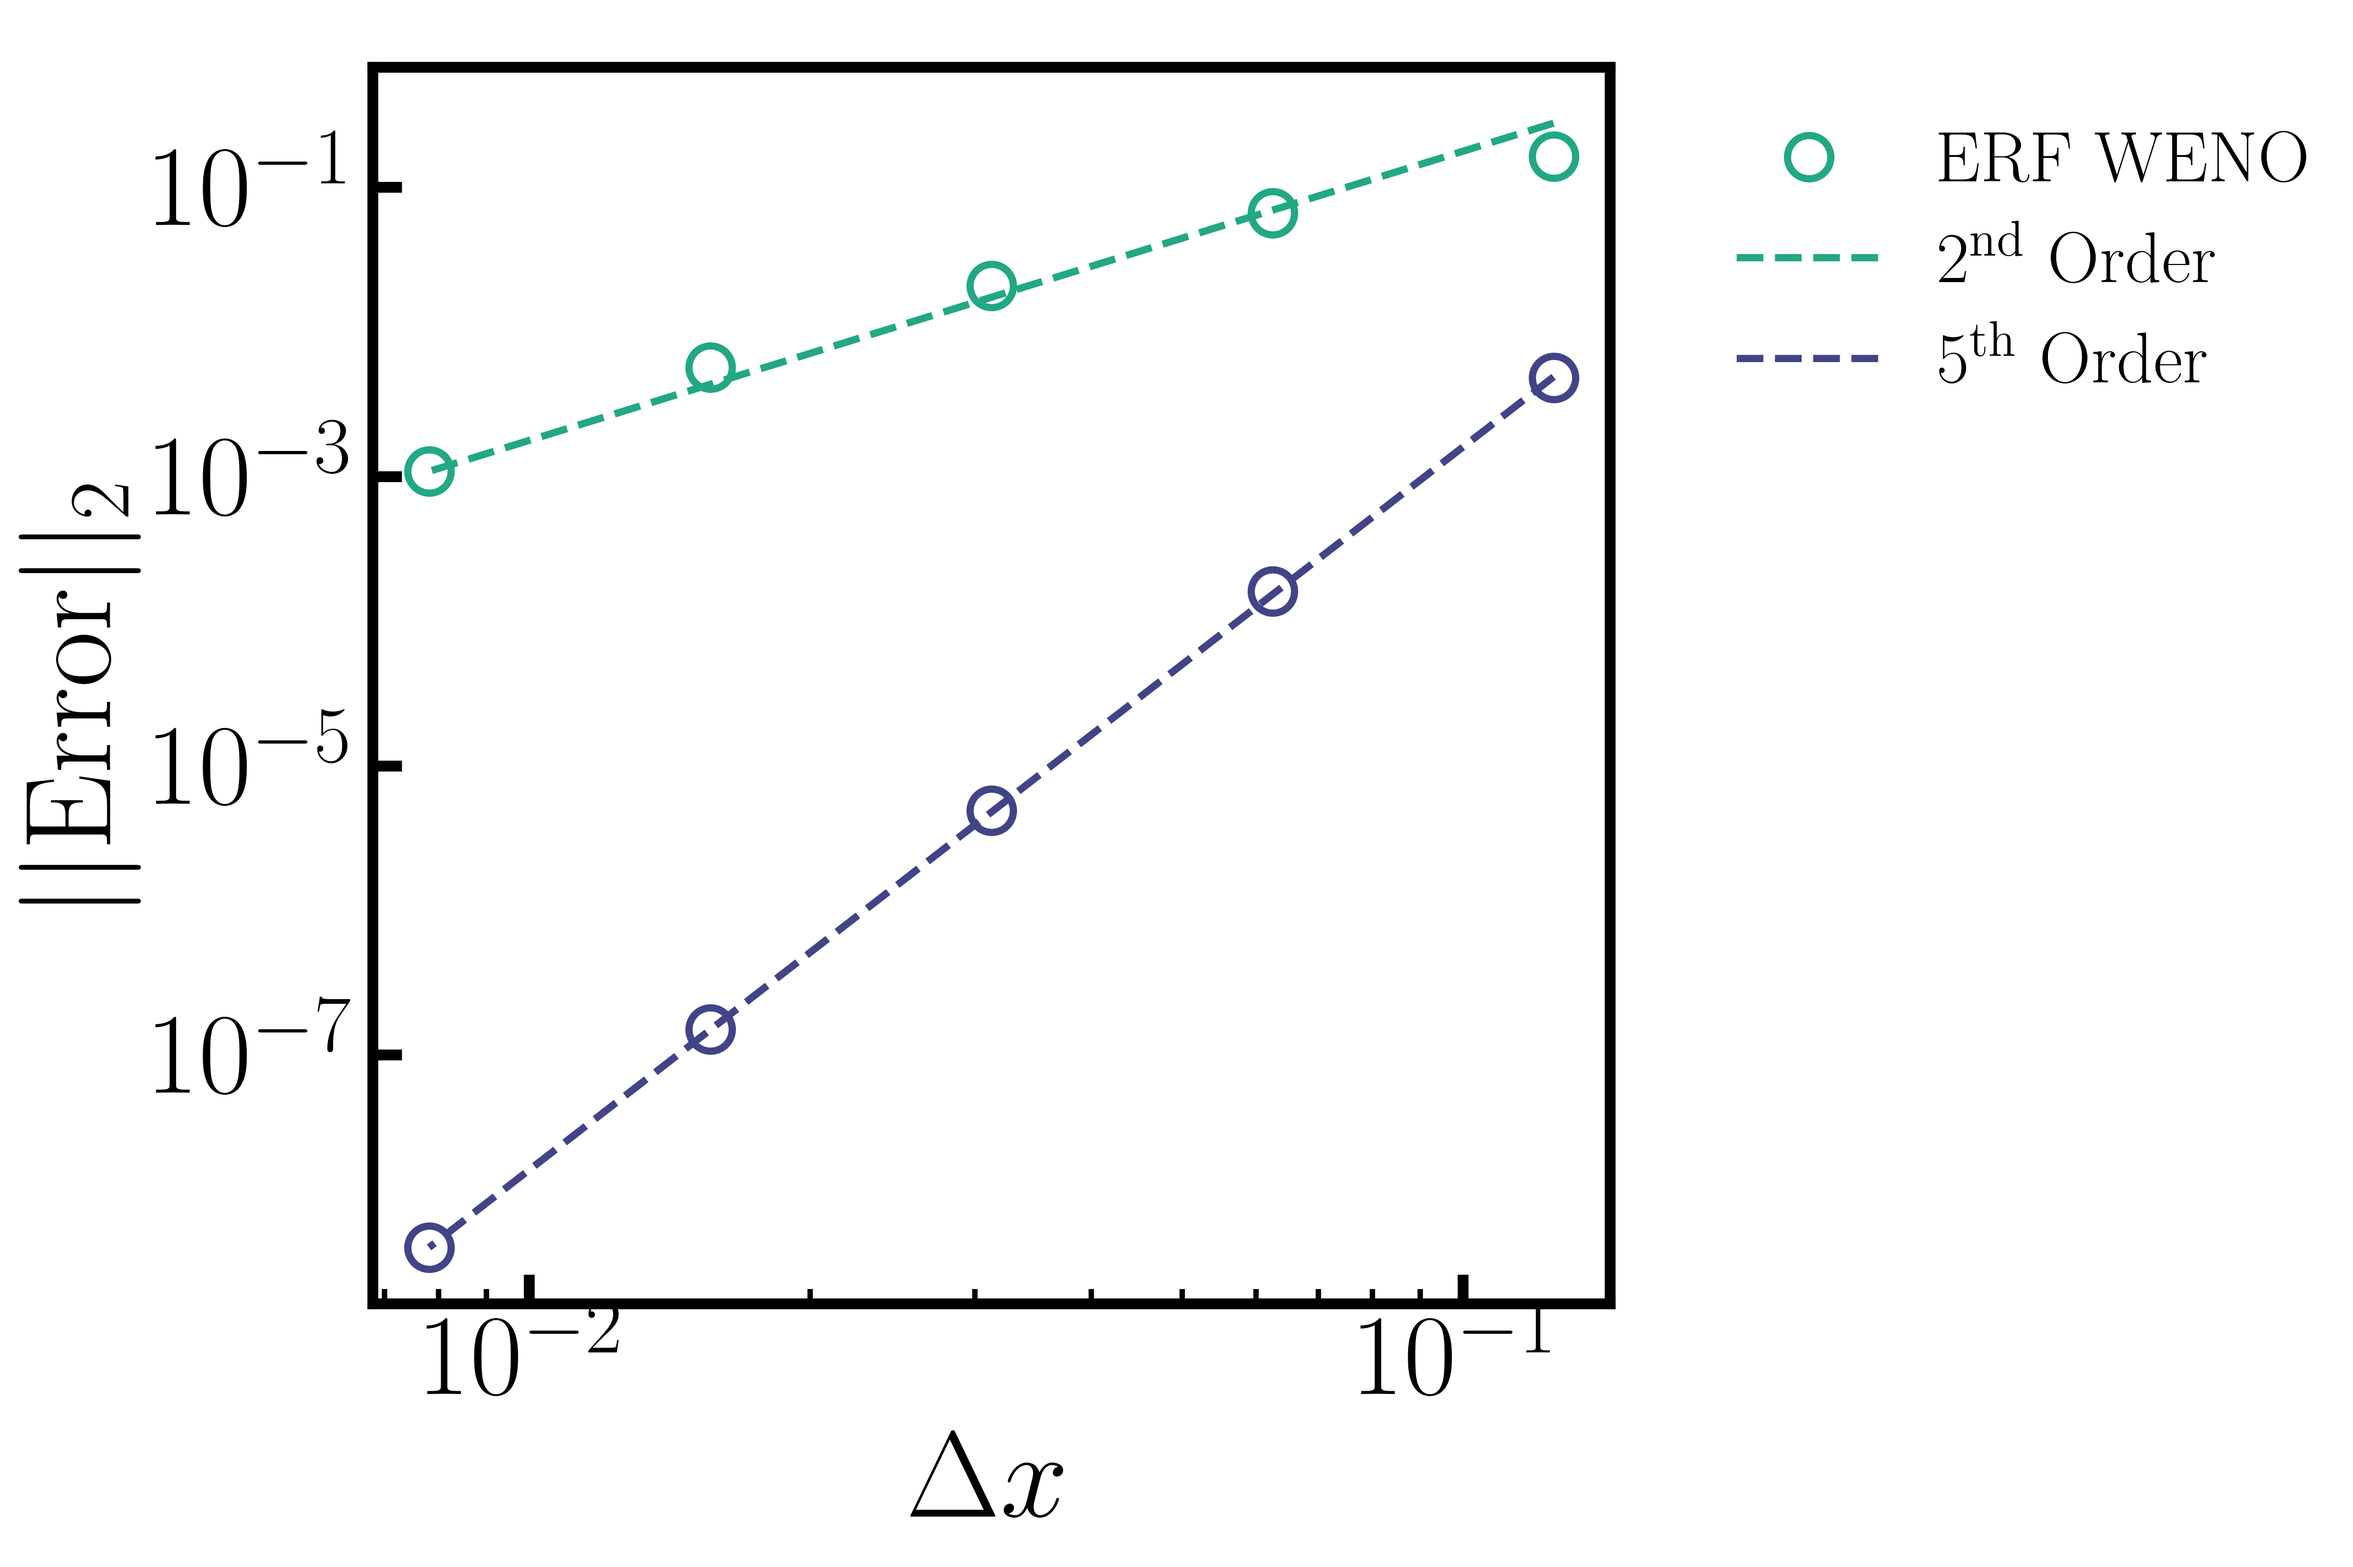
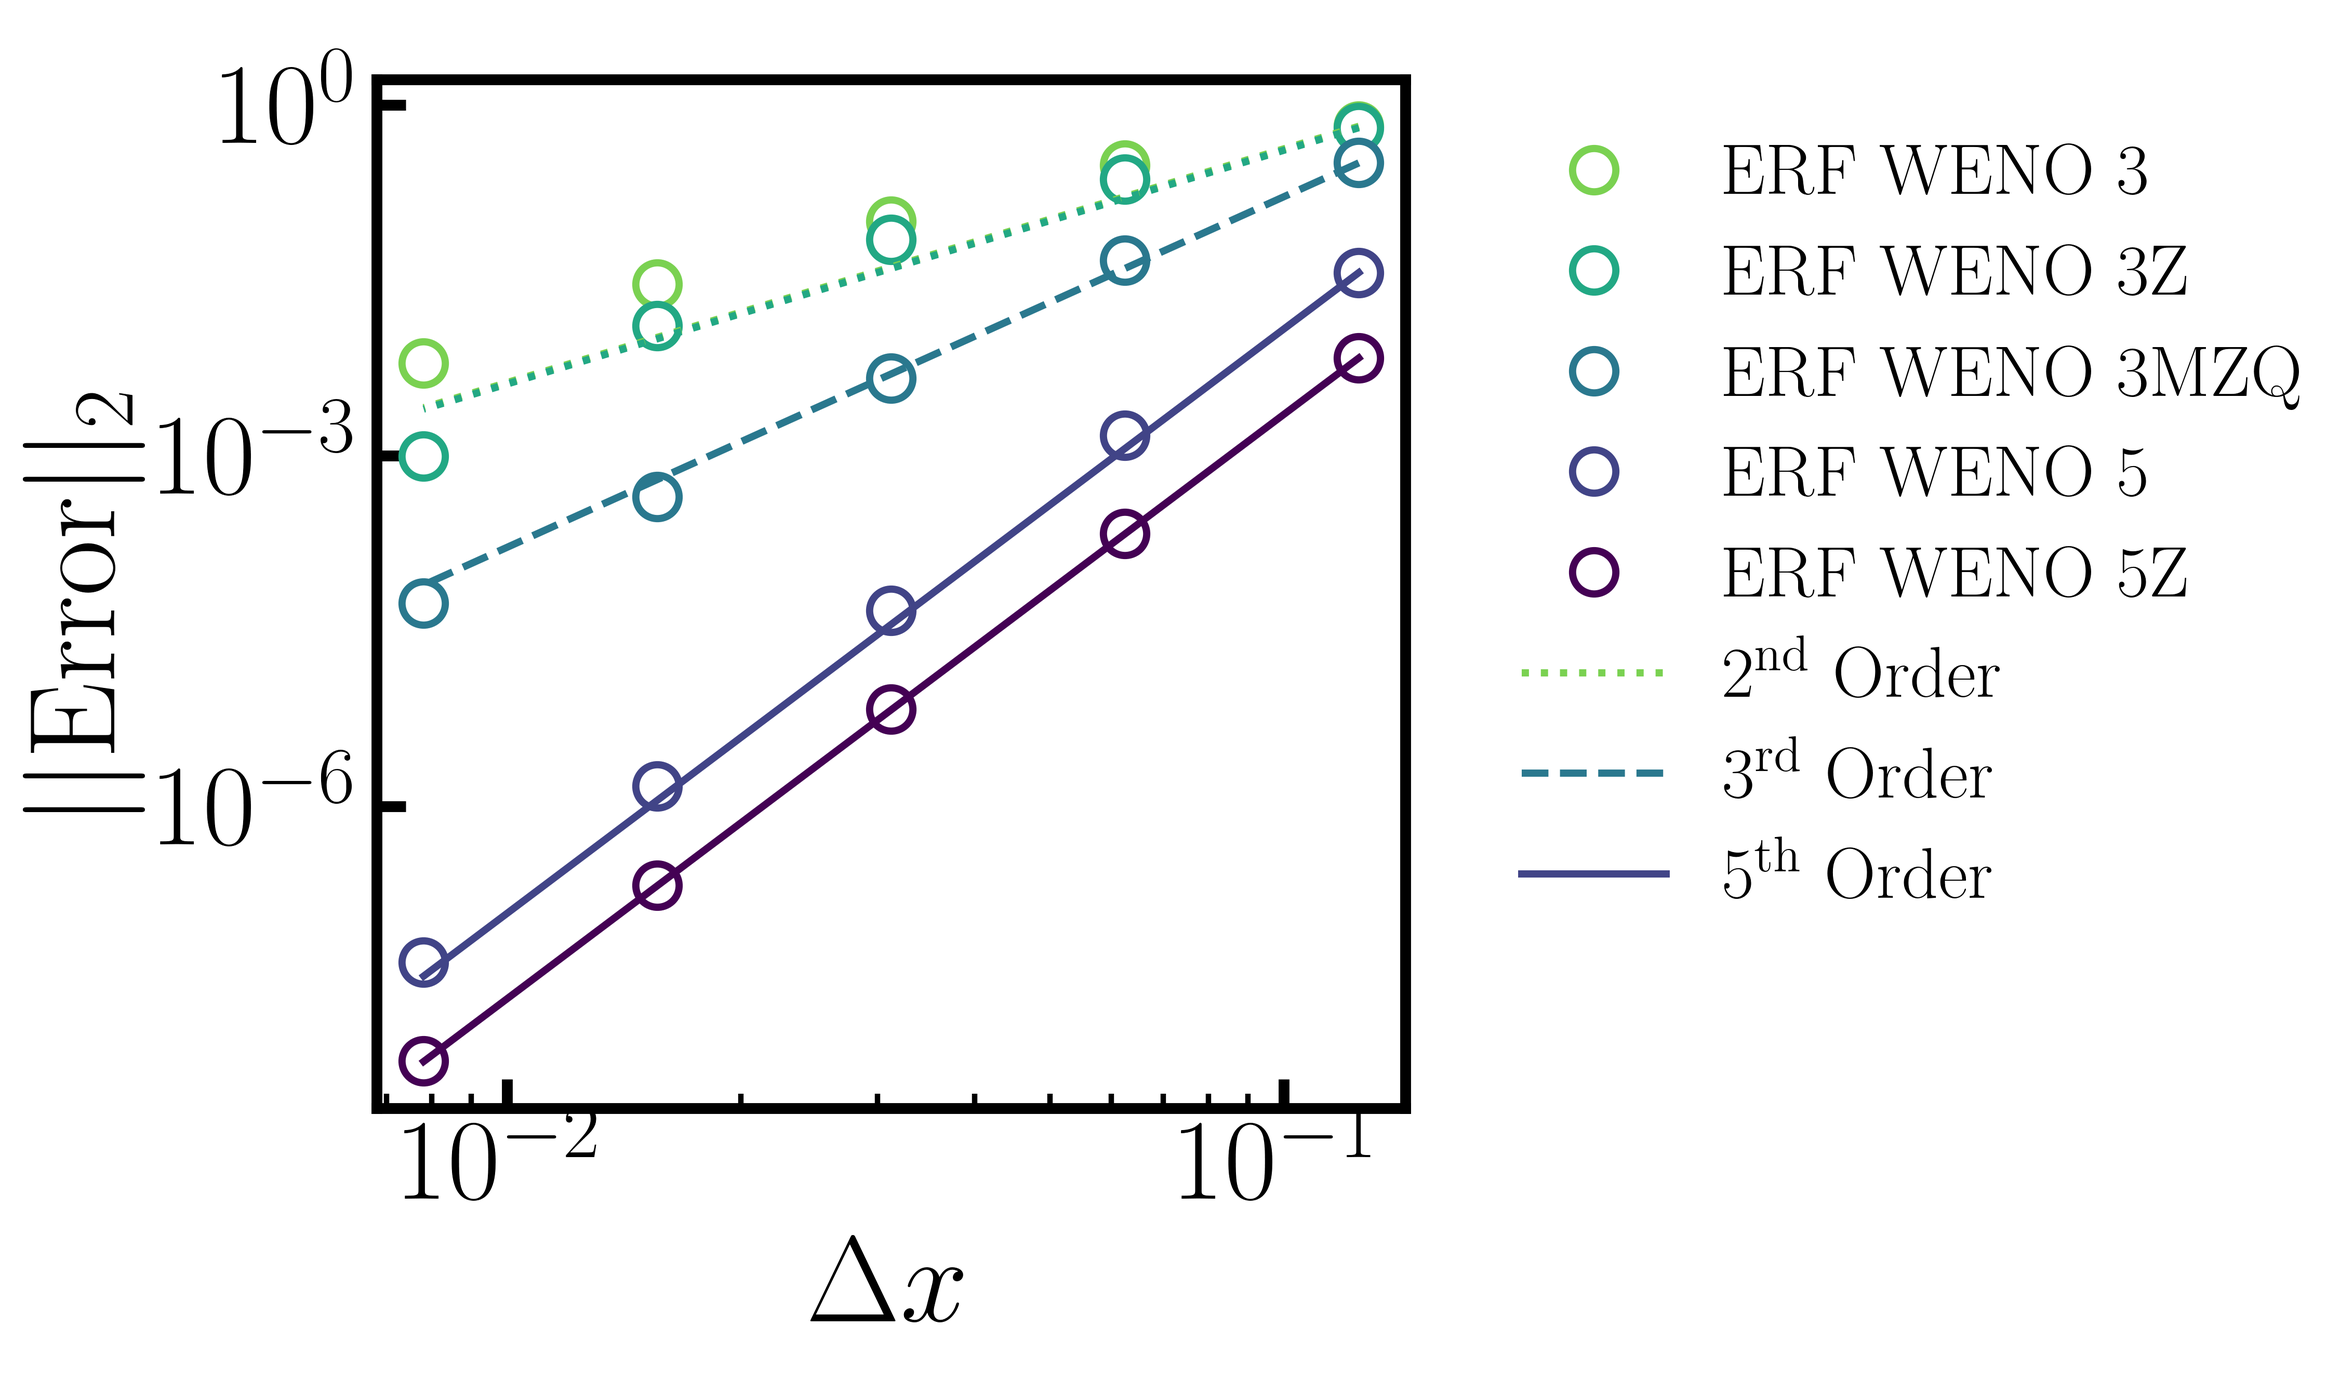
Update conv plots. (#1195)

diff --git a/Docs/sphinx_doc/Verification.rst b/Docs/sphinx_doc/Verification.rst
@@ -15,7 +15,7 @@ Here we present spatial and temporal convergence studies for simple scalar advec
 The initial data has constant density and pressure, constant velocity :math:`u=10` in the x-direction,
 and a scalar initialized with profile :math:`cos(\pi x)` in a domain that is 2 units wide and
 periodic in the lateral directions with slip walls on top and bottom.
-The simulation is run for one period, i.e. until time :math:`t=0.2`
+The simulation is run for 10 periods, i.e. until time :math:`t=2.0`
 
 The first study, shown below on the left, tests the horizontal centered/upwind advection stencils for
 second through sixth order. The study on the right tests the WENO 3rd and 5th order stencils,
